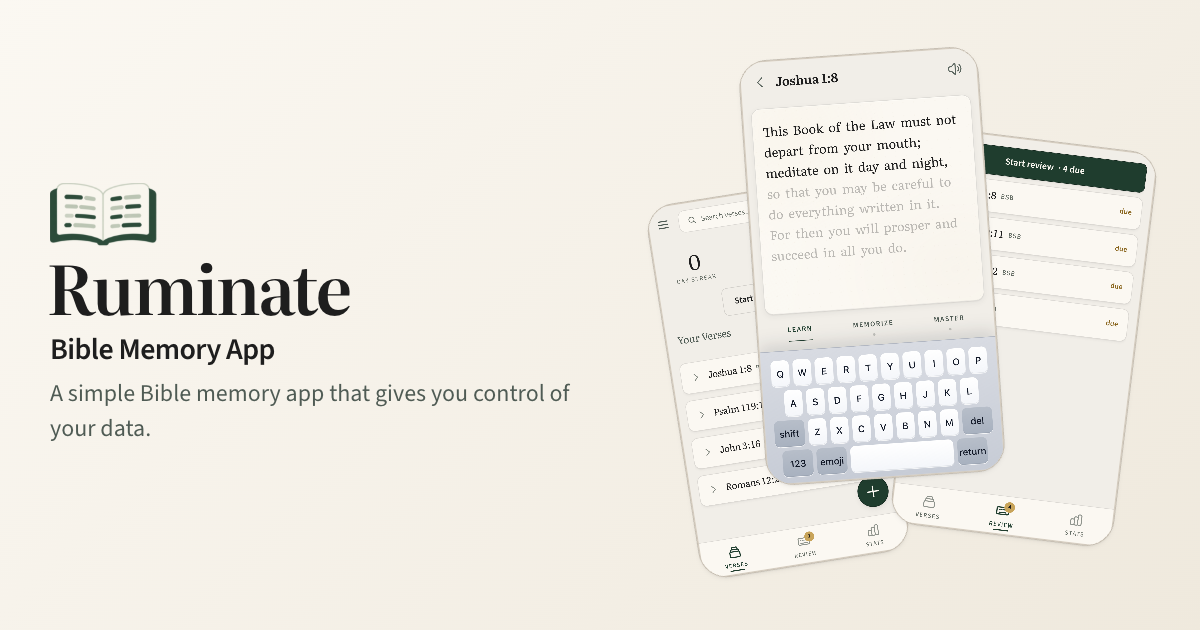
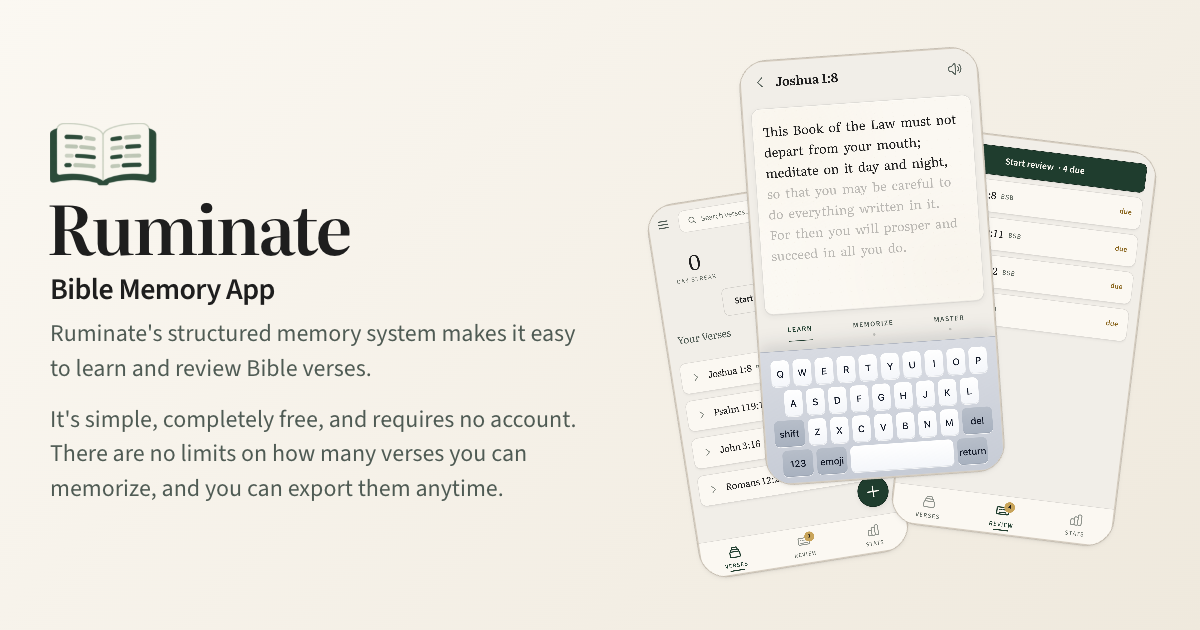
fix: clarify marketing branding and social preview copy

Changed region(s): [[0.0308, 0.2111, 0.4933, 0.7841]]

diff --git a/site/index.html b/site/index.html
@@ -25,9 +25,12 @@
     </svg>
     <div class="site-shell">
       <header class="home-header home-container">
-        <a class="brand" href="/" aria-label="Ruminate home">
+        <a class="brand" href="/" aria-label="Ruminate Bible Memory App home">
           <img class="brand__mark" src="/icons/icon-192x192.png" alt="" width="40" height="40" />
-          <span class="brand__name">Ruminate</span>
+          <span class="brand__wordmark">
+            <span class="brand__name">Ruminate</span>
+            <span class="brand__descriptor">Bible Memory App</span>
+          </span>
         </a>
         <div class="app-return" data-return-banner hidden>
           <a class="app-return__link" data-return-link href="%APP_URL%">

diff --git a/e2e/specs/marketing.spec.ts b/e2e/specs/marketing.spec.ts
@@ -82,7 +82,7 @@ for (const path of [
     await gotoMarketing(page, `${path}?returnTo=%2Fapp%2F%3Fview%3Dreview-list%23today`)
 
     const returnLink = page.getByRole('link', { name: 'Back to app', exact: true })
-    const brand = page.getByRole('banner').getByRole('link', { name: /^Ruminate(?: home)?$/ })
+    const brand = page.getByRole('banner').getByRole('link', { name: /^Ruminate(?: Bible Memory App)?(?: home)?$/ })
     for (const width of [842, 466, 320]) {
       await page.setViewportSize({ width, height: 888 })
       await expect(returnLink).toBeVisible()

diff --git a/site/home.css b/site/home.css
@@ -91,6 +91,26 @@
   padding-bottom: 0.2rem;
   font-size: 1.55rem;
 }
+.home-header .brand__mark {
+  flex-shrink: 0;
+}
+.home-header .brand__wordmark {
+  display: flex;
+  flex-direction: column;
+  gap: 0.15rem;
+}
+.home-header .brand__name {
+  padding-bottom: 0;
+}
+.home-header .brand__descriptor {
+  font-family: var(--font-sans);
+  font-size: 0.75rem;
+  font-weight: 500;
+  line-height: 1.2;
+  letter-spacing: 0.01em;
+  color: var(--text-muted);
+  white-space: nowrap;
+}
 .home-nav {
   display: flex;
   flex-wrap: wrap;
